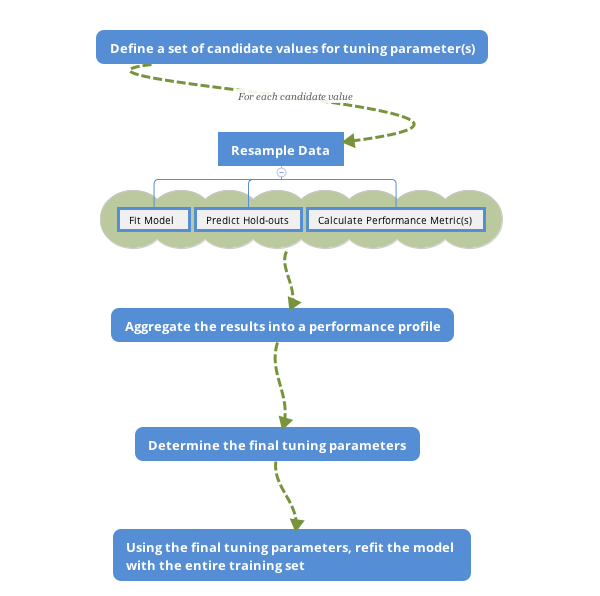
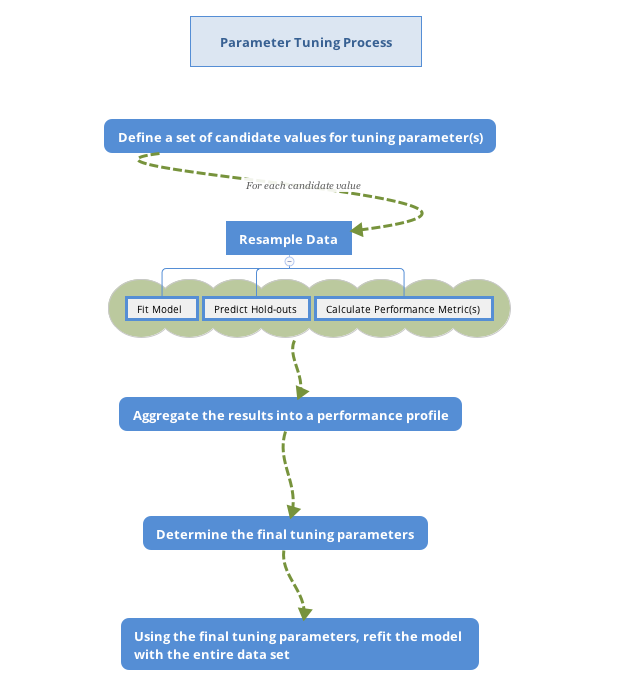
model tuning

Changed region(s): [[0.15, 0.0, 0.84, 0.9966]]

diff --git a/IDS/systematic-error-and-random-error.html b/IDS/systematic-error-and-random-error.html
@@ -25,7 +25,7 @@
 <meta name="author" content="Hui Lin and Ming Li">
 
 
-<meta name="date" content="2018-01-05">
+<meta name="date" content="2018-01-09">
 
   <meta name="viewport" content="width=device-width, initial-scale=1">
   <meta name="apple-mobile-web-app-capable" content="yes">
@@ -174,13 +174,18 @@ code > span.in { color: #60a0b0; font-weight: bold; font-style: italic; } /* Inf
 <h2><span class="header-section-number">4.1</span> Systematic Error and Random Error</h2>
 <p>Assume <span class="math inline">\(\mathbf{X}\)</span> is <span class="math inline">\(n \times p\)</span> observation matrix and <span class="math inline">\(\mathbf{y}\)</span> is response variable, we have:</p>
 <p><span class="math display">\[\mathbf{y}=f(\mathbf{X})+\mathbf{\epsilon}\]</span></p>
-<p>where <span class="math inline">\(\mathbf{\epsilon}\)</span> is the random error with a mean of zero. The function <span class="math inline">\(f(\cdot)\)</span> is our modeling target, which represents the information in the response variable that predictors can explain. The main goal of estimating <span class="math inline">\(f(\cdot)\)</span> is inference or prediction, or sometimes both. In general, there is a trade-off between flexibility and interpretability of the model. So data scientists need to comprehend the delicate balance between the two.</p>
-<p>Depending on the modeling purposes, the requirement for interpretability varies. If the prediction is the only goal, then as long as the prediction is accurate enough, the interpretability is not under consideration. In this case, people often use “black box” model, such as random forest, boosting tree, neural network and so on. These models are very flexible but nearly impossible to explain. Their predictive accuracy is usually higher on the training set, but not necessary when it predicts. It is not surprising since those models have a huge number of parameters and high flexibility that they can memorize the entire training data. A paper by Chiyuan Zhang et al. in 2017 pointed out that “Deep neural networks (even just two-layer net) easily fit random labels” <span class="citation">(Zhang et al. <a href="#ref-rethinkDL">2017</a>)</span>. The traditional forms of regularization, such as weight decay, dropout, and data augmentation, fail to control generalization error. It poses a conceptual challenge to statistical theory and also calls our attention when we use such black-box models.</p>
-<p>There are two kinds of application problems: complete information problem and incomplete information problem. The complete information problem has all the information you need to know the correct response. Take the famous cat recognition, for example, all the information you need to identify a cat is in the picture. In this situation, the algorithm that penetrates the data the most wins. There are some other similar problems such as the self-driving car, chess game, facial recognition and speech recognition. But in most of the data science applications, the information is incomplete. If you want to know whether a customer is going to purchase again or not, it is unlikely to have 360-degree of the customer’s information. You may have their historical purchasing record, discounts and service received. But you don’t know if the customer sees your ad, or has a friend recommends competitor’s product, or encounters some unhappy purchasing experience somewhere. There could be a myriad of factors that will influence the customer’s purchase decision while what you have as data is only a small part. To make things worse, in many cases, you don’t even know what you don’t know. Deep learning doesn’t have any advantage in solving those problems. Instead, some parametric models often work better in this situation. You will comprehend this more after learning the different types of model error.</p>
-<p>Assume we have <span class="math inline">\(\hat{f}\)</span> which is an estimator of <span class="math inline">\(f\)</span>. Then we can further get <span class="math inline">\(\mathbf{\hat{y}}=\hat(f)(\mathbf(X))\)</span>. The predicted error is divided into two parts, systematic error, and random error:</p>
+<p>where <span class="math inline">\(\mathbf{\epsilon}\)</span> is the random error with a mean of zero. The function <span class="math inline">\(f(\cdot)\)</span> is our modeling target, which represents the information in the response variable that predictors can explain. The main goal of estimating <span class="math inline">\(f(\cdot)\)</span> is inference or prediction, or sometimes both. In general, there is a trade-off between flexibility and interpretability of the model. So data scientists need to comprehend the delicate balance between these two.</p>
+<p>Depending on the modeling purposes, the requirement for interpretability varies. If the prediction is the only goal, then as long as the prediction is accurate enough, the interpretability is not under consideration. In this case, people can use “black box” model, such as random forest, boosting tree, neural network and so on. These models are very flexible but nearly impossible to explain. Their accuracy is usually higher on the training set, but not necessary when it predicts. It is not surprising since those models have a huge number of parameters and high flexibility that they can “memorize” the entire training data. A paper by Chiyuan Zhang et al. in 2017 pointed out that “Deep neural networks (even just two-layer net) easily fit random labels” <span class="citation">(Zhang et al. <a href="#ref-rethinkDL">2017</a>)</span>. The traditional forms of regularization, such as weight decay, dropout, and data augmentation, fail to control generalization error. It poses a conceptual challenge to statistical theory and also calls our attention when we use such black-box models.</p>
+<p>There are two kinds of application problems: complete information problem and incomplete information problem. The complete information problem has all the information you need to know the correct response. Take the famous cat recognition, for example, all the information you need to identify a cat is in the picture. In this situation, the algorithm that penetrates the data the most wins. There are some other similar problems such as the self-driving car, chess game, facial recognition and speech recognition. But in most of the data science applications, the information is incomplete. If you want to know whether a customer is going to purchase again or not, it is unlikely to have 360-degree of the customer’s information. You may have their historical purchasing record, discounts and service received. But you don’t know if the customer sees your advertisement, or has a friend recommends competitor’s product, or encounters some unhappy purchasing experience somewhere. There could be a myriad of factors that will influence the customer’s purchase decision while what you have as data is only a small part. To make things worse, in many cases, you don’t even know what you don’t know. Deep learning doesn’t have any advantage in solving those problems. Instead, some parametric models often work better in this situation. You will comprehend this more after learning the different types of model error. Assume we have <span class="math inline">\(\hat{f}\)</span> which is an estimator of <span class="math inline">\(f\)</span>. Then we can further get <span class="math inline">\(\mathbf{\hat{y}}=\hat{f}(\mathbf{X})\)</span>. The predicted error is divided into two parts, systematic error, and random error:</p>
 <p><span class="math display">\[E(\mathbf{y}-\hat{\mathbf{y}})^{2}=E[f(\mathbf{X})+\mathbf{\epsilon}-\hat{f}(\mathbf{X})]^{2}=\underset{\text{(1)}}{\underbrace{E[f(\mathbf{X})-\hat{f}(\mathbf{X})]^{2}}}+\underset{\text{(2)}}{\underbrace{Var(\mathbf{\epsilon})}}
 \label{eq:error}\]</span></p>
-<p>In the above equation, (1) is the systematic error. It exists because <span class="math inline">\(\hat{f}\)</span> usually does not entirely describe the “systematic relation” between X and y which refers to the stable relationship that exists across different samples. Using a better model can reduce this kind of the error; (2) is the random error which represents the part of y that cannot be explained by X. A more complex model does not reduce the error. The biggest problem with the black-box model is that it fits random error, i.e., over-fitting. The notable feature of random error is that it varies over different samples. So one way to determine whether overfitting happens is to reserve a part of the data as the test set and then check the performance of the trained model on the test data. Note that overfitting is a general problem from which any model could suffer. However, since black-box models usually have a large number of parameters, it is much more suspectable to over-fitting.</p>
+<p>It is also called Mean Square Error (MSE) where (1) is the systematic error. It exists because <span class="math inline">\(\hat{f}\)</span> usually does not entirely describe the “systematic relation” between X and y which refers to the stable relationship that exists across different samples or time. Model improvement can help reduce this kind of error; (2) is the random error which represents the part of y that cannot be explained by X. A more complex model does not reduce the error. There are three reasons for random error:</p>
+<ol style="list-style-type: decimal">
+<li>the current sample is not representative, so the pattern in one sample set does not generalize to a broader scale.</li>
+<li>The information is incomplete. In other words, you don’t have all variables needed to explain the response.</li>
+<li>Measurement error in the variables.</li>
+</ol>
+<p>Deep learning has significant success solving problems with complete information and usually low measurement error. As mentioned before, in a task like image recognition, all you need are the pixels in the pictures. So in deep learning applications, increasing the sample size can improve the model performance significantly. But it may not perform well in problems with incomplete information. The biggest problem with the black-box model is that it fits random error, i.e., over-fitting. The notable feature of random error is that it varies over different samples. So one way to determine whether overfitting happens is to reserve a part of the data as the test set and then check the performance of the trained model on the test data. Note that overfitting is a general problem from which any model could suffer. However, since black-box models usually have a large number of parameters, it is much more suspectable to over-fitting.</p>
 <div class="figure">
 <img src="images/ModelError.png" alt="Types of Model Error" />
 <p class="caption">Types of Model Error</p>
@@ -261,10 +266,10 @@ p4=<span class="kw">ggplot</span>(dat4,<span class="kw">aes</span>(x4,fx4))+<spa
 <span class="st">  </span><span class="kw">geom_smooth</span>(<span class="dt">method =</span> <span class="st">&quot;lm&quot;</span>, <span class="dt">se =</span> <span class="ot">FALSE</span>)
 <span class="kw">multiplot</span>(p1,p2,p3,p4,<span class="dt">cols=</span><span class="dv">2</span>)</code></pre></div>
 <p><img src="IDS_files/figure-html/unnamed-chunk-33-1.svg" width="672" /></p>
-<p>In general, the variance (<span class="math inline">\(Var(\hat{f}(\mathbf{X}))\)</span>) <strong>increases</strong> and the bias (<span class="math inline">\(Bias(\hat{f}(\mathbf{X}))\)</span>) <strong>decreases</strong> as the model flexibility increases. Variance and bias together determine the systematic error (or mean square error, MSE). As we increase the flexibility of the model, at first the rate at which <span class="math inline">\(Bias(\hat{f}(\mathbf{X}))\)</span> decreases is faster than <span class="math inline">\(Var (\hat{f} (\mathbf{X}))\)</span>, so the MSE decreases. However, to some degree, higher flexibility has little effect on <span class="math inline">\(Bias(\hat{f}(\mathbf{X}))\)</span> but <span class="math inline">\(Var(\hat{f} (\mathbf{X}))\)</span> increases significantly, so the MSE increases.</p>
+<p>In general, the variance (<span class="math inline">\(Var(\hat{f}(\mathbf{X}))\)</span>) <strong>increases</strong> and the bias (<span class="math inline">\(Bias(\hat{f}(\mathbf{X}))\)</span>) <strong>decreases</strong> as the model flexibility increases. Variance and bias together determine the systematic error. As we increase the flexibility of the model, at first the rate at which <span class="math inline">\(Bias(\hat{f}(\mathbf{X}))\)</span> decreases is faster than <span class="math inline">\(Var (\hat{f} (\mathbf{X}))\)</span>, so the MSE decreases. However, to some degree, higher flexibility has little effect on <span class="math inline">\(Bias(\hat{f}(\mathbf{X}))\)</span> but <span class="math inline">\(Var(\hat{f} (\mathbf{X}))\)</span> increases significantly, so the MSE increases.</p>
 <div id="measurement-error-in-the-response" class="section level3">
 <h3><span class="header-section-number">4.1.1</span> Measurement Error in the Response</h3>
-<p>The random error (<span class="math inline">\(\mathbf{\epsilon}\)</span>) reflects the measurement error in the response. This part of the error is irreducible, and so it makes the root mean square error (RMSE) and <span class="math inline">\(R^2\)</span> have the corresponding upper and lower limits. RMSE and <span class="math inline">\(R^2\)</span> are commonly used performance measures for the regression model which we will talk in more detail later. Therefore, the random error term not only represents the part of fluctuations the model cannot explain but also contains measurement error in the response variables. Section 20.2 of Applied Predictive Modeling <span class="citation">(Kuhn and Johnston <a href="#ref-APM">2013</a>)</span> has an example that shows the effect of the measurement error in the response variable on the model performance (RMSE and <span class="math inline">\(R^2\)</span>).</p>
+<p>The measurement error in the response contributes to the random error (<span class="math inline">\(\mathbf{\epsilon}\)</span>). This part of the error is irreducible if you change the data collection mechanism, and so it makes the root mean square error (RMSE) and <span class="math inline">\(R^2\)</span> have the corresponding upper and lower limits. RMSE and <span class="math inline">\(R^2\)</span> are commonly used performance measures for the regression model which we will talk in more detail later. Therefore, the random error term not only represents the part of fluctuations the model cannot explain but also contains measurement error in the response variables. Section 20.2 of Applied Predictive Modeling <span class="citation">(Kuhn and Johnston <a href="#ref-APM">2013</a>)</span> has an example that shows the effect of the measurement error in the response variable on the model performance (RMSE and <span class="math inline">\(R^2\)</span>).</p>
 <p>The authors increased the error in the response proportional to a base level error which was gotten using the original data without introducing extra noise. Then fit a set of models repeatedly using the “contaminated” data sets to study the change of <span class="math inline">\(RMSE\)</span> and <span class="math inline">\(R^2\)</span> as the level of noise. Here we use clothing consumer data for a similar illustration. Suppose many people do not want to disclose their income and so we need to use other variables to establish a model to predict income. We set up the following model:</p>
 <div class="sourceCode"><pre class="sourceCode r"><code class="sourceCode r"><span class="co"># load data</span>
 sim.dat &lt;-<span class="st"> </span><span class="kw">read.csv</span>(<span class="st">&quot;https://raw.githubusercontent.com/happyrabbit/DataScientistR/master/Data/SegData.csv &quot;</span>)

diff --git a/IDS/data-splitting-and-resampling.html b/IDS/data-splitting-and-resampling.html
@@ -25,7 +25,7 @@
 <meta name="author" content="Hui Lin and Ming Li">
 
 
-<meta name="date" content="2018-01-05">
+<meta name="date" content="2018-01-09">
 
   <meta name="viewport" content="width=device-width, initial-scale=1">
   <meta name="apple-mobile-web-app-capable" content="yes">
@@ -182,8 +182,8 @@ code > span.in { color: #60a0b0; font-weight: bold; font-style: italic; } /* Inf
 <li>What is the sales difference in 2015 for two different product designs?</li>
 </ul>
 <p>There is no need to go through the tedious process of splitting the data, tuning and testing model to answer questions of this kind. Instead, people usually use as complete data as possible and then sum or average the parts of interest.</p>
-<p>Many models have parameters which cannot be directly estimated from the data, such as <span class="math inline">\(\lambda\)</span> in the lasso (penalty parameter), the number of trees in the random forest. This type of model parameter is called tuning parameter, and there is no analytical formula available to calculate the optimizing value. Tuning parameters often control the complexity of the model. Poor choice for the values can result in over-fitting or under-fitting. A standard approach to estimate tuning parameters is through cross-validation which is a data resampling approach.</p>
-<p>Since to get reasonable precision of the performance values on a single test set, the size of the test set may need to be large. So more often, people will instead resample the training set. <em>Data resampling</em> operates similarly: use a subset of samples to fit a model and use the rest to evaluate model performance. This process will repeat multiple times to get a performance profile. In that sense, resampling is based on splitting. The general steps are:</p>
+<p>Many models have parameters which cannot be directly estimated from the data, such as <span class="math inline">\(\lambda\)</span> in the lasso (penalty parameter), the number of trees in the random forest. This type of model parameter is called tuning parameter, and there is no analytical formula available to calculate the optimized value. Tuning parameters often control the complexity of the model. A poor choice can result in over-fitting or under-fitting. A standard approach to estimate tuning parameters is through cross-validation which is a data resampling approach.</p>
+<p>To get a reasonable precision of the performance based on a single test set, the size of the test set may need to be large. So a conventional approach is to use a subset of samples to fit the model and use the rest to evaluate model performance. This process will repeat multiple times to get a performance profile. In that sense, resampling is based on splitting. The general steps are:</p>
 <ul>
 <li>Define a set of candidate values for tuning parameter(s)
 <ul>
@@ -197,13 +197,12 @@ code > span.in { color: #60a0b0; font-weight: bold; font-style: italic; } /* Inf
 </ul></li>
 <li>Aggregate the results</li>
 <li>Determine the final tuning parameter</li>
-<li>Refit the model with the entire training set</li>
+<li>Refit the model with the entire data set</li>
 </ul>
 <div class="figure">
 <img src="images/ParameterTuningProcess.png" alt="Parameter Tuning Process" style="width:80.0%" />
 <p class="caption">Parameter Tuning Process</p>
 </div>
-<p>We have outlined above the general procedure to tune parameters. Now let’s focus on the critical part of the process: data splitting.</p>
 
 </div>
 <!-- </div> -->

diff --git a/IDS/model-tuning-strategy.html b/IDS/model-tuning-strategy.html
@@ -25,7 +25,7 @@
 <meta name="author" content="Hui Lin and Ming Li">
 
 
-<meta name="date" content="2018-01-05">
+<meta name="date" content="2018-01-09">
 
   <meta name="viewport" content="width=device-width, initial-scale=1">
   <meta name="apple-mobile-web-app-capable" content="yes">
@@ -172,7 +172,7 @@ code > span.in { color: #60a0b0; font-weight: bold; font-style: italic; } /* Inf
             <section class="normal" id="section-">
 <div id="model-tuning-strategy" class="section level1">
 <h1><span class="header-section-number">Chapter 4</span> Model Tuning Strategy</h1>
-<p>When training a machine learning model, there are many decisions to make. For example, when training a random forest, you need to decide the number trees and the number of variables to enter the model. For lasso method, you need to determine the penalty parameter. There may be standard settings for some of the parameters, but it’s unlikely to guess the right values for all of these correctly. Other than that, making good choices on how you split the data into training and testing sets can make a huge difference in helping you find a high-performance model efficiently.</p>
+<p>When training a machine learning model, there are many decisions to make. For example, when training a random forest, you need to decide the number of trees and the number of variables at each node. For lasso method, you need to determine the penalty parameter. There may be standard settings for some of the parameters, but it’s unlikely to guess the right values for all of these correctly. Other than that, making good choices on how you split the data into training and testing sets can make a huge difference in helping you find a high-performance model efficiently.</p>
 <p>This chapter will illustrate the practical aspects of model tuning. We will talk about different types of model error, sources of model error, hyperparameter tuning, how to set up your data and how to make sure your model implementation is correct. In practice applying machine learning is a highly iterative process.</p> 
 </div>
             </section>

diff --git a/IDS/index.html b/IDS/index.html
@@ -25,7 +25,7 @@
 <meta name="author" content="Hui Lin and Ming Li">
 
 
-<meta name="date" content="2018-01-05">
+<meta name="date" content="2018-01-09">
 
   <meta name="viewport" content="width=device-width, initial-scale=1">
   <meta name="apple-mobile-web-app-capable" content="yes">
@@ -173,7 +173,7 @@ code > span.in { color: #60a0b0; font-weight: bold; font-style: italic; } /* Inf
 <div id="header">
 <h1 class="title">Introduction to Data Science</h1>
 <h4 class="author"><em>Hui Lin and Ming Li</em></h4>
-<h4 class="date"><em>2018-01-05</em></h4>
+<h4 class="date"><em>2018-01-09</em></h4>
 </div>
 <div id="preface" class="section level1 unnumbered">
 <h1>Preface</h1>

diff --git a/IDS/about-the-authors.html b/IDS/about-the-authors.html
@@ -25,7 +25,7 @@
 <meta name="author" content="Hui Lin and Ming Li">
 
 
-<meta name="date" content="2018-01-05">
+<meta name="date" content="2018-01-09">
 
   <meta name="viewport" content="width=device-width, initial-scale=1">
   <meta name="apple-mobile-web-app-capable" content="yes">

diff --git a/IDS/acknowledgements.html b/IDS/acknowledgements.html
@@ -25,7 +25,7 @@
 <meta name="author" content="Hui Lin and Ming Li">
 
 
-<meta name="date" content="2018-01-05">
+<meta name="date" content="2018-01-09">
 
   <meta name="viewport" content="width=device-width, initial-scale=1">
   <meta name="apple-mobile-web-app-capable" content="yes">

diff --git a/IDS/centering-and-scaling.html b/IDS/centering-and-scaling.html
@@ -25,7 +25,7 @@
 <meta name="author" content="Hui Lin and Ming Li">
 
 
-<meta name="date" content="2018-01-05">
+<meta name="date" content="2018-01-09">
 
   <meta name="viewport" content="width=device-width, initial-scale=1">
   <meta name="apple-mobile-web-app-capable" content="yes">

diff --git a/IDS/collinearity.html b/IDS/collinearity.html
@@ -25,7 +25,7 @@
 <meta name="author" content="Hui Lin and Ming Li">
 
 
-<meta name="date" content="2018-01-05">
+<meta name="date" content="2018-01-09">
 
   <meta name="viewport" content="width=device-width, initial-scale=1">
   <meta name="apple-mobile-web-app-capable" content="yes">

diff --git a/IDS/conventions.html b/IDS/conventions.html
@@ -25,7 +25,7 @@
 <meta name="author" content="Hui Lin and Ming Li">
 
 
-<meta name="date" content="2018-01-05">
+<meta name="date" content="2018-01-09">
 
   <meta name="viewport" content="width=device-width, initial-scale=1">
   <meta name="apple-mobile-web-app-capable" content="yes">

diff --git a/IDS/customer-data-for-clothing-company.html b/IDS/customer-data-for-clothing-company.html
@@ -25,7 +25,7 @@
 <meta name="author" content="Hui Lin and Ming Li">
 
 
-<meta name="date" content="2018-01-05">
+<meta name="date" content="2018-01-09">
 
   <meta name="viewport" content="width=device-width, initial-scale=1">
   <meta name="apple-mobile-web-app-capable" content="yes">

diff --git a/IDS/customer-satisfaction-survey-data-from-airline-company.html b/IDS/customer-satisfaction-survey-data-from-airline-company.html
@@ -25,7 +25,7 @@
 <meta name="author" content="Hui Lin and Ming Li">
 
 
-<meta name="date" content="2018-01-05">
+<meta name="date" content="2018-01-09">
 
   <meta name="viewport" content="width=device-width, initial-scale=1">
   <meta name="apple-mobile-web-app-capable" content="yes">

diff --git a/IDS/data-cleaning.html b/IDS/data-cleaning.html
@@ -25,7 +25,7 @@
 <meta name="author" content="Hui Lin and Ming Li">
 
 
-<meta name="date" content="2018-01-05">
+<meta name="date" content="2018-01-09">
 
   <meta name="viewport" content="width=device-width, initial-scale=1">
   <meta name="apple-mobile-web-app-capable" content="yes">
